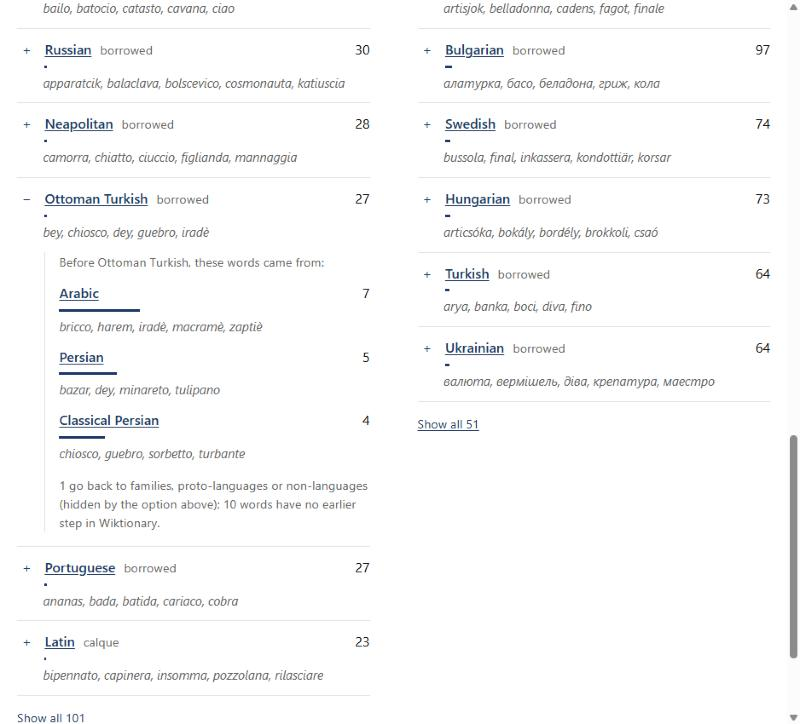
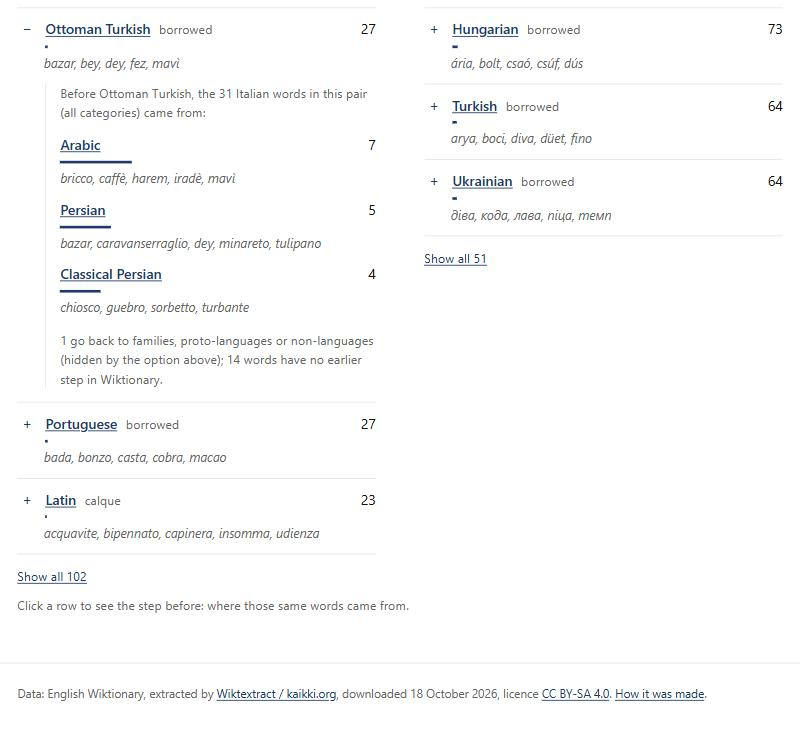
Screenshot of the online Italian page

diff --git a/JOURNAL.md b/JOURNAL.md
@@ -84,4 +84,4 @@ Davide ha visto il prototipo: il diagramma a flussi non gli piace e non mostra i
 - Prestiti dall'inglese: 982 in entrambi; sul sito «English · borrowed · 982».
 - Totale preso (prestiti + latinismi + calchi) 8.304 e dato 9.358 in entrambi. Sul sito «Took from» mostra 8.101 perché l'interruttore acceso nasconde le non-lingue (Translingual) e le famiglie (203 parole); «Gave to» 9.358.
 - Sotto «Ottoman Turkish» si apre l'arabo con 7 parole tra cui *caffè* (poi persiano 5, persiano classico 4, una protolingua nascosta, 14 parole senza passo precedente su 31).
-- Verifica con Edge senza finestra (file locale) per italiano e francese, nessun errore; screenshot `index.png`, `language-french.png`, `language-italian-phone.png` rifatti. Gli `.jpg` del browser integrato sono della versione con il campione (stessa grafica, esempi diversi).
+- Verifica con Edge senza finestra (file locale) per italiano e francese, nessun errore; screenshot `index.png`, `language-french.png`, `language-italian-phone.png` rifatti. `language-italian-ottoman-turkish.jpg` rifatto sulla pagina online (browser integrato, una volta, console pulita); gli altri due `.jpg` sono della versione con il campione (stessa grafica, esempi diversi).
